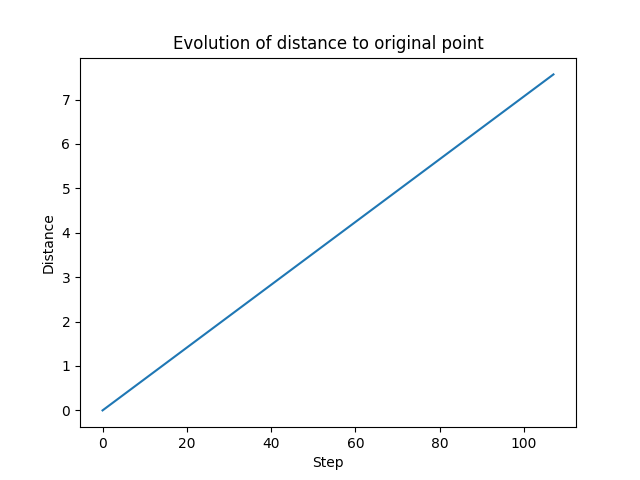
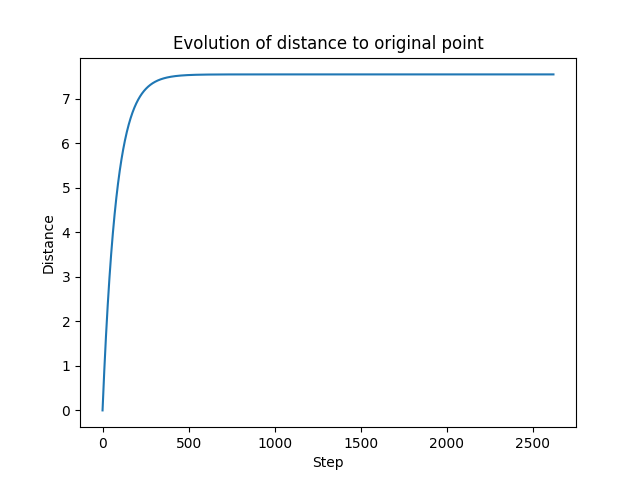
FIX(fgsm): grad

diff --git a/mlsecu/adversarial_ml_attack_implem.py b/mlsecu/adversarial_ml_attack_implem.py
@@ -31,7 +31,7 @@ def fgsm_attack_svm_2c(classifier:svm.SVC, orig_point, dist_function, step=None,
     eps_evol = [current_eps]
     while orig_class == new_class:
         if current_eps < epsilon and i < max_step:
-            data_point = data_point + step *  np.sign(classifier.decision_function(data_point.reshape(1, -1))[0])
+            data_point = data_point + step *  (classifier.decision_function(data_point.reshape(1, -1))[0])
             new_class = classifier.predict(data_point.reshape(1, -1))[0]
             current_eps = dist_function(data_point,orig_point)
             attack_info = data_point, current_eps
